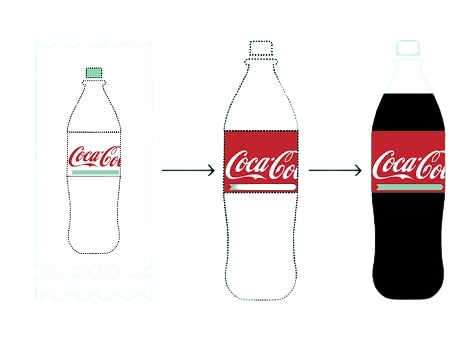
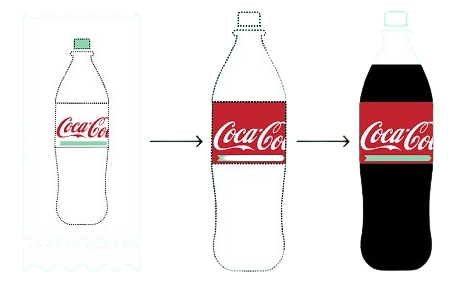
estilizando seções garrafinha e cadastro

diff --git a/styles/style.css b/styles/style.css
@@ -282,4 +282,90 @@
   cursor: pointer;
   border: 1px solid white;
   margin-top: 2rem;
+}
+
+.garrafa-virtual {
+  background-color: #8cd5ae;
+  width: 100%;
+}
+.garrafa-virtual div {
+  display: flex;
+  flex-direction: column;
+  justify-content: normal;
+  flex-wrap: wrap;
+  gap: 1rem;
+  max-width: 1200px;
+  width: 90%;
+  margin: 0 auto;
+  padding: 3rem 0;
+  align-items: center;
+}
+.garrafa-virtual div h2 {
+  font-family: "poppins", sans-serif;
+  font-size: 2rem;
+  font-weight: 700;
+  text-transform: uppercase;
+  letter-spacing: 2px;
+  color: #db3534;
+  font-size: 1.5rem;
+}
+.garrafa-virtual div p {
+  font-size: 1rem;
+  font-weight: 600;
+  color: #000;
+  line-height: 1.4rem;
+  text-align: center;
+}
+.garrafa-virtual div a {
+  border: 1px solid #000;
+  padding: 0.7rem 1rem;
+  border-radius: 25px;
+  background-color: #000;
+  color: white;
+  transition: 0.4s;
+  cursor: pointer;
+}
+.garrafa-virtual img {
+  width: 100%;
+}
+
+.cadastro {
+  display: flex;
+  flex-direction: column-reverse;
+  justify-content: normal;
+  flex-wrap: wrap;
+  width: 100%;
+  background-color: #db3534;
+}
+.cadastro img {
+  width: 100%;
+}
+.cadastro div {
+  max-width: 1200px;
+  width: 90%;
+  margin: 0 auto;
+  display: flex;
+  flex-direction: column;
+  justify-content: normal;
+  flex-wrap: wrap;
+  gap: 2rem;
+  align-items: end;
+  color: white;
+  padding: 3rem 0;
+}
+.cadastro div h3 {
+  font-size: 1.4rem;
+}
+.cadastro div a {
+  border: 1px solid #000;
+  padding: 0.7rem 1rem;
+  border-radius: 25px;
+  background-color: #000;
+  color: white;
+  transition: 0.4s;
+  cursor: pointer;
+  background-color: white;
+  color: #000;
+  border: none;
+  font-weight: 600;
 }/*# sourceMappingURL=style.css.map */

diff --git a/styles/components/_cadastro.scss b/styles/components/_cadastro.scss
@@ -1,0 +1,30 @@
+@use '../abstract/variaveis';
+@use '../abstract/mixins';
+
+.cadastro{
+    @include mixins.flex-fd-jc-fw(column-reverse, normal, wrap);
+    width: 100%;
+    background-color: variaveis.$vermelho;
+
+    img{
+        width: 100%;
+    }
+    div{
+        @include mixins.container();
+        @include mixins.flex-fd-jc-fw(column, normal, wrap);
+        gap: 2rem;
+        align-items: end;
+        color: variaveis.$branco;
+        padding: 3rem 0;
+        h3{
+            font-size: 1.4rem;
+        }
+        a{
+            @include mixins.botao();
+            background-color: variaveis.$branco;
+            color: variaveis.$preto;
+            border: none;
+            font-weight: 600;
+        }
+    }
+}

diff --git a/styles/components/_garrafinha.scss b/styles/components/_garrafinha.scss
@@ -1,0 +1,29 @@
+@use '../abstract/variaveis';
+@use '../abstract/mixins';
+
+.garrafa-virtual{
+    background-color: variaveis.$verde;
+    width: 100%;
+
+    div{
+        @include mixins.flex-fd-jc-fw(column, normal, wrap);
+        gap: 1rem;
+        @include mixins.container();
+        padding: 3rem 0;
+        align-items: center;
+        h2{
+            @include mixins.titulo();
+            color: variaveis.$vermelho;
+            font-size: 1.5rem;
+        }
+        p{
+            @include mixins.subtitulo-cl(variaveis.$preto);
+        }
+        a{
+            @include mixins.botao();
+        }
+    }
+    img{
+        width: 100%;
+    }
+}

diff --git a/styles/style.scss b/styles/style.scss
@@ -7,3 +7,5 @@
 @use './components/ofertas';
 @use './components/propaganda';
 @use './components/promocao';
+@use './components/garrafinha';
+@use './components/cadastro';
